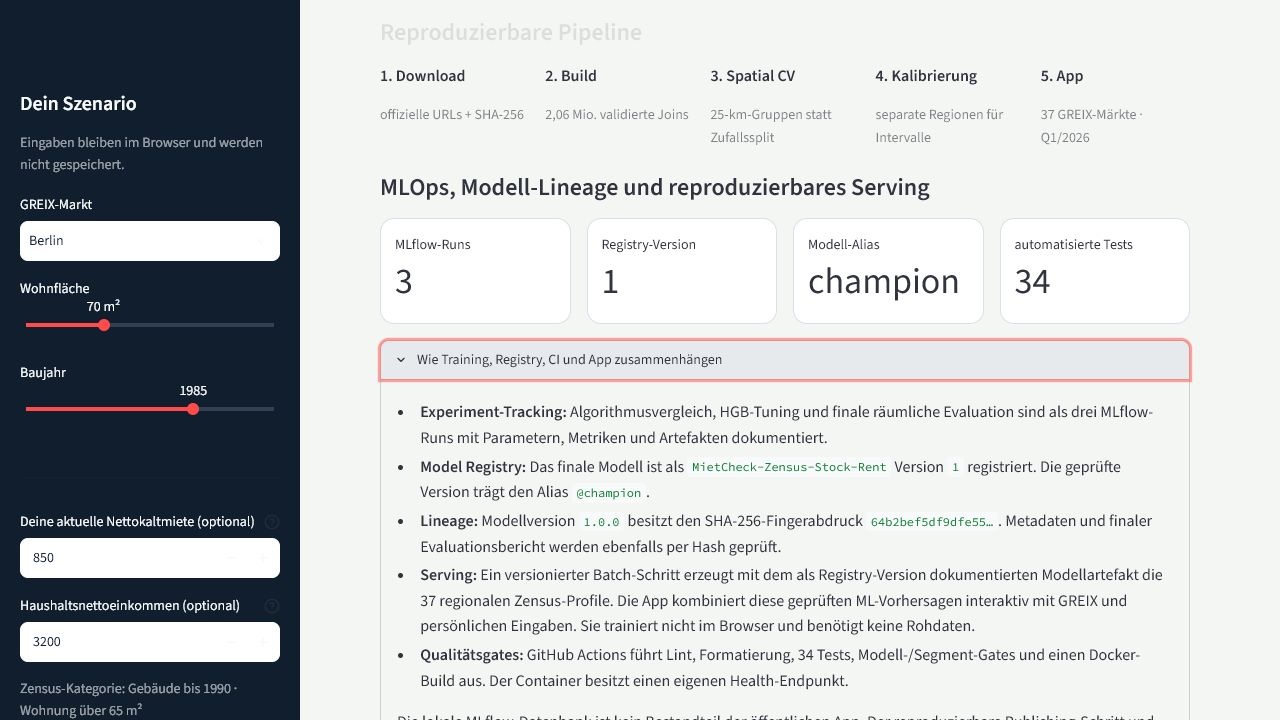
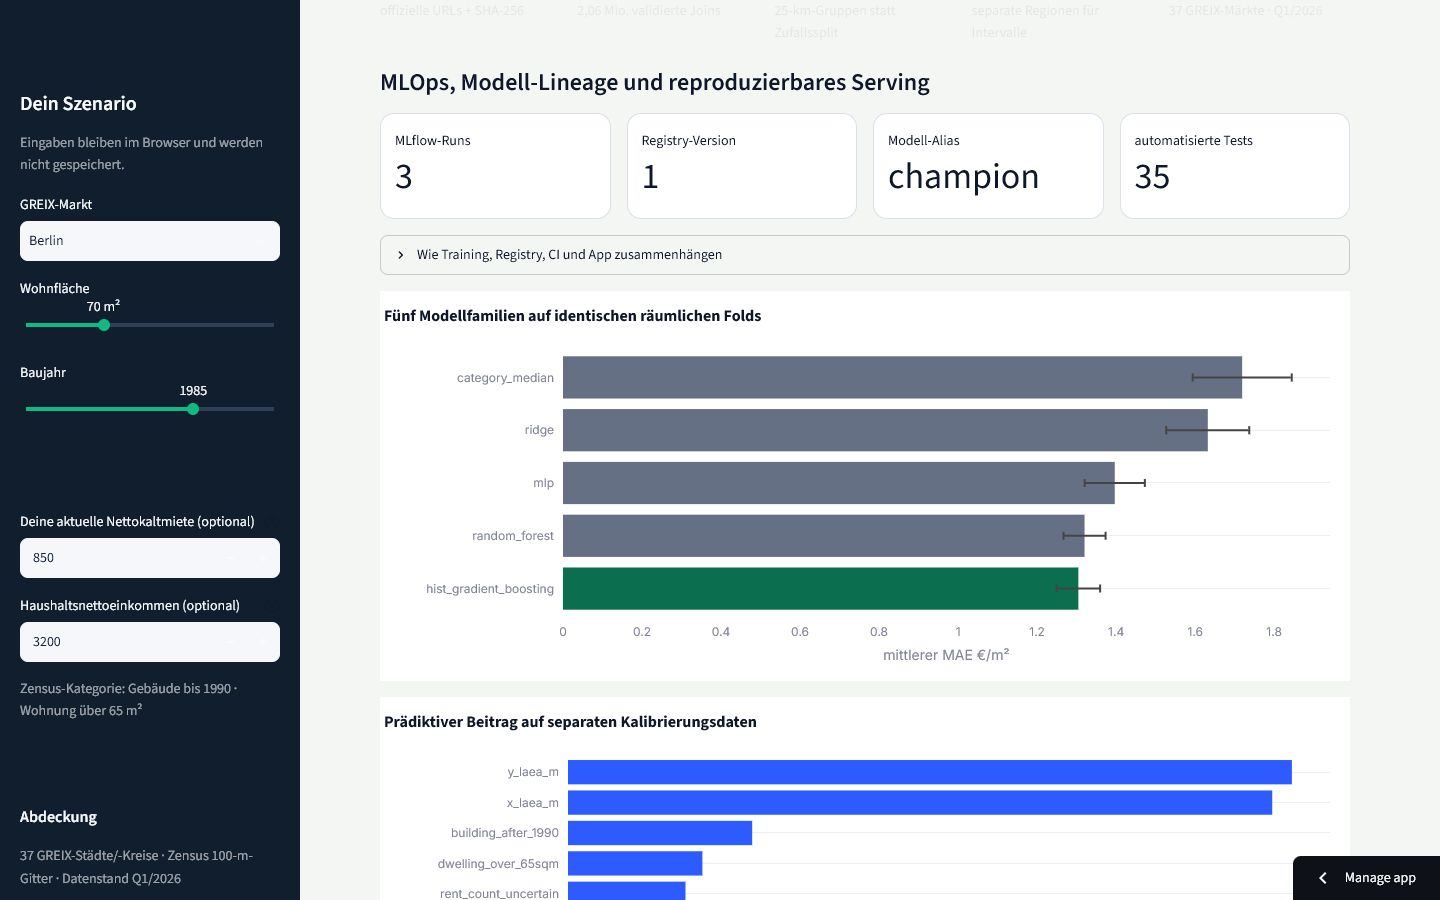
Synchronize Streamlit benchmark artifacts

diff --git a/app.py b/app.py
@@ -25,6 +25,7 @@ BUILD_REPORT = ROOT / "reports" / "dataset_build_report.json"
 MODEL_META = ROOT / "models" / "zensus_hgb_meta.json"
 MODEL_MANIFEST = ROOT / "models" / "model_manifest.json"
 MLFLOW_REPORT = ROOT / "reports" / "mlflow_publish.json"
+DATA_CACHE_VERSION = "2026-07-19-seven-model-benchmark"
 
 COLORS = {
     "ink": "#132238",
@@ -50,7 +51,11 @@ st.set_page_config(
 
 
 @st.cache_data
-def load_data() -> tuple[pd.DataFrame, pd.DataFrame, dict, dict, dict, dict, dict, dict]:
+def load_data(
+    cache_version: str,
+) -> tuple[pd.DataFrame, pd.DataFrame, dict, dict, dict, dict, dict, dict]:
+    """Load versioned app artifacts so deployments cannot reuse stale report caches."""
+    del cache_version
     profiles = pd.read_csv(PROFILES_FILE)
     greix = pd.read_csv(GREIX_FILE)
     final = json.loads(FINAL_REPORT.read_text(encoding="utf-8"))
@@ -357,7 +362,7 @@ st.markdown(
     model_meta,
     model_manifest,
     mlflow_report,
-) = load_data()
+) = load_data(DATA_CACHE_VERSION)
 regions = sorted(profiles["region"].tolist())
 
 with st.sidebar:
@@ -686,7 +691,7 @@ with method_tab:
         )
     )
     model_figure.update_layout(
-        title="Fünf Modellfamilien auf identischen räumlichen Folds",
+        title=f"{len(ranking)} Modellfamilien auf identischen räumlichen Folds",
         xaxis_title="mittlerer MAE €/m²",
         yaxis_title="",
         height=390,

diff --git a/tests/test_streamlit_app.py b/tests/test_streamlit_app.py
@@ -1,3 +1,4 @@
+import json
 from pathlib import Path
 
 from streamlit.testing.v1 import AppTest
@@ -14,6 +15,8 @@ def test_streamlit_app_renders_and_updates_scenario() -> None:
         "Methodik & Quellen",
     ]
     assert app.selectbox[0].value == "Berlin"
+    model_chart = json.loads(app.get("plotly_chart")[4].proto.spec)
+    assert "7 Modellfamilien" in model_chart["layout"]["title"]["text"]
 
     app.selectbox[0].select("Hamburg")
     app.slider[0].set_value(90)